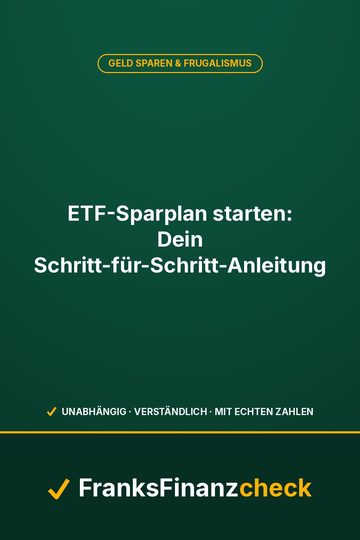
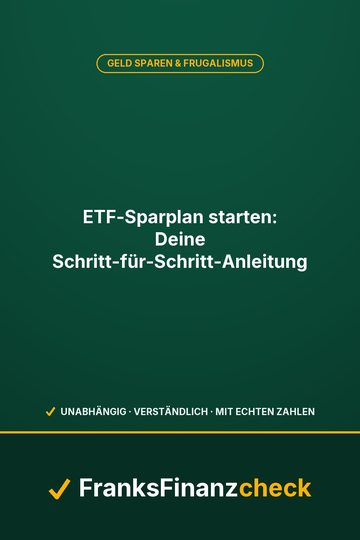
fix(content): ETF-Sparplan-Titel grammatikalisch korrigieren

diff --git a/content/posts/2026-10-24-etf-sparplan-starten-schritt-fuer-schritt-zum-monatlichen/index.md b/content/posts/2026-10-24-etf-sparplan-starten-schritt-fuer-schritt-zum-monatlichen/index.md
@@ -1,5 +1,5 @@
 ---
-title: "ETF-Sparplan starten: Dein Schritt-für-Schritt-Anleitung"
+title: "ETF-Sparplan starten: Deine Schritt-für-Schritt-Anleitung"
 description: "ETF-Sparplan starten: Erfahre, wie du als Einsteiger einen Sparplan aufsetzt, Fehler vermeidest und monatlich clever investierst – ohne Fachchinesisch."
 date: 2026-10-28T01:27:02Z
 kurzantwort: "Ein ETF-Sparplan ist ein automatischer Dauerauftrag fürs Depot: Du legst eine feste Monatssumme fest, der Broker kauft dafür Anteile eines breit gestreuten Index-ETF – die Einrichtung dauert meist unter 15 Minuten. Im Rechenbeispiel des Artikels werden aus 50 € monatlich über 20 Jahre bei angenommenen 5 % Rendite p. a. rund 30.000 €."
